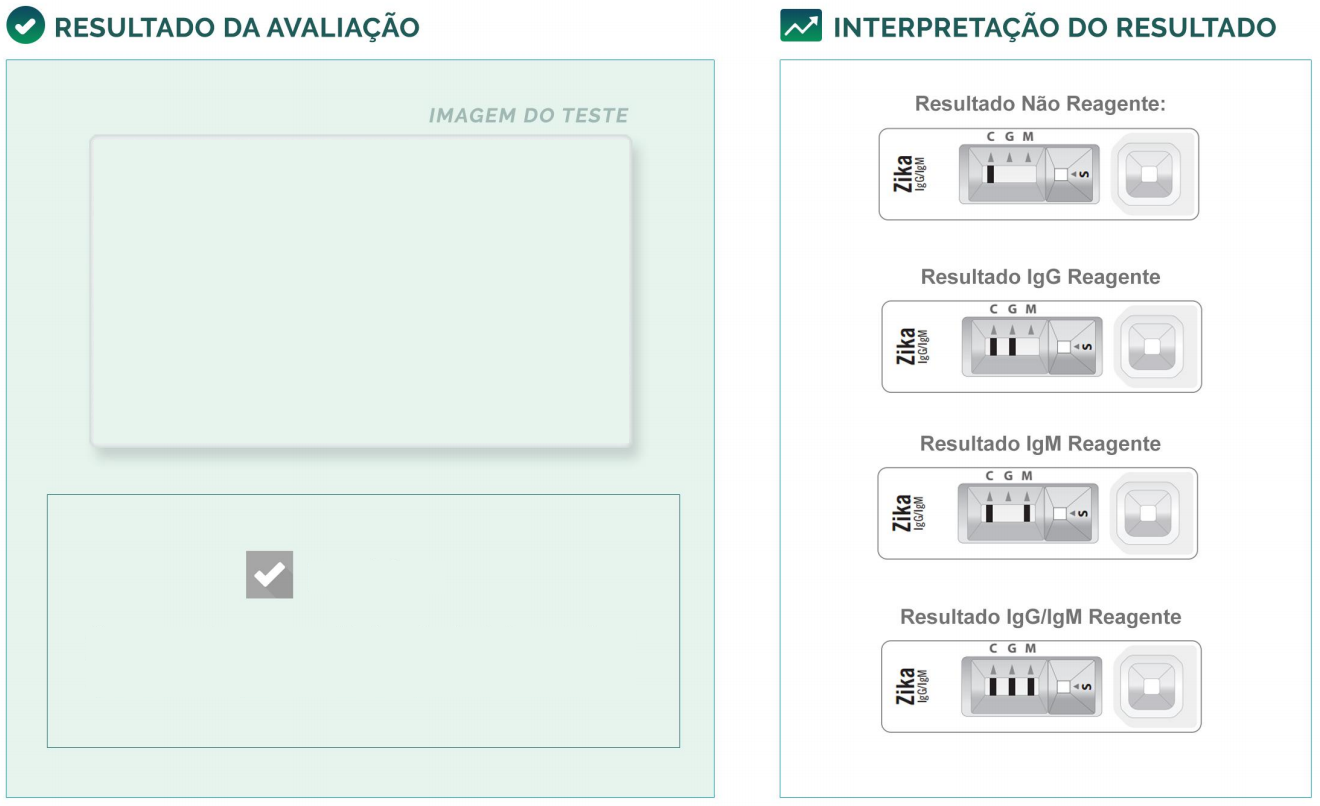
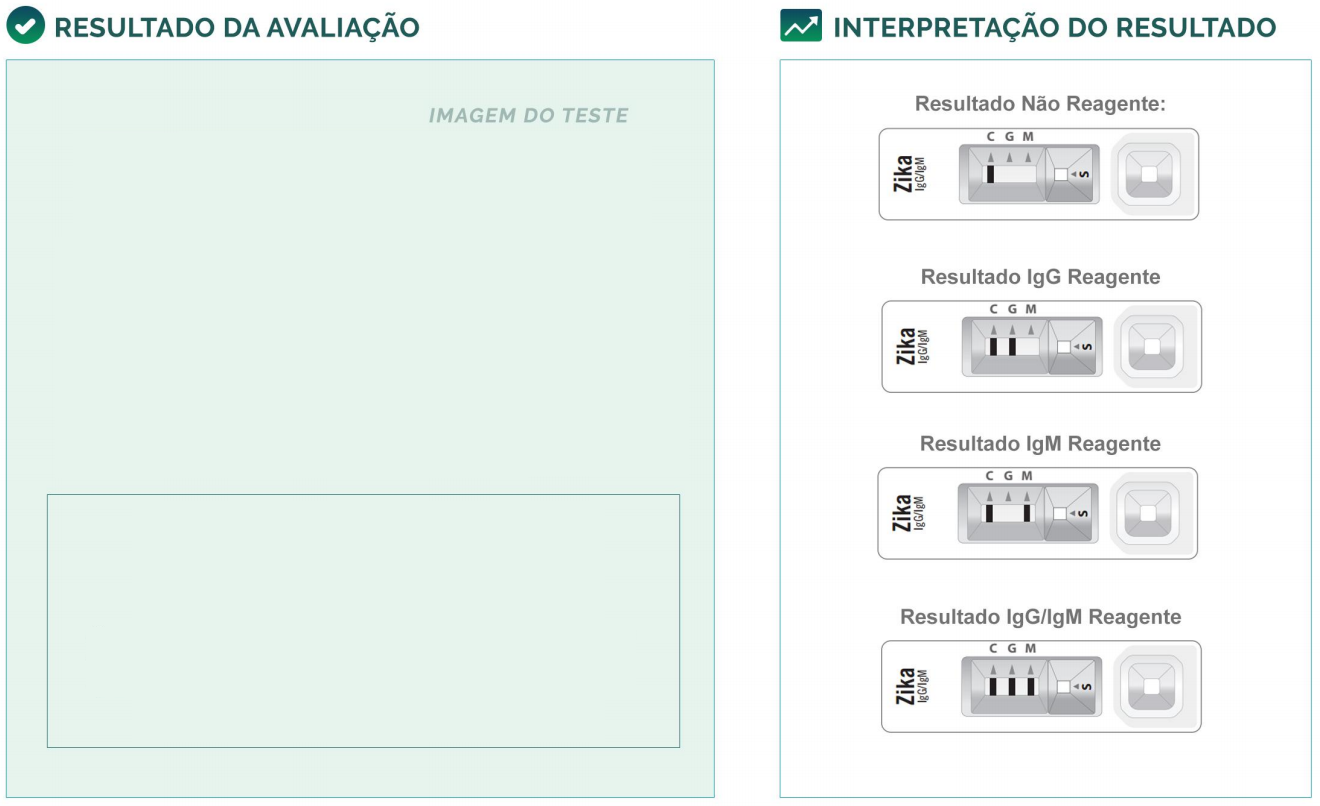
laudo result

Changed region(s): [[0.0621, 0.5583, 0.4659, 0.5893], [0.1864, 0.6824, 0.2485, 0.7444], [0.4659, 0.5273, 0.497, 0.5583]]

diff --git a/LabClick.Services/Services/LaudoServices.cs b/LabClick.Services/Services/LaudoServices.cs
@@ -65,6 +65,19 @@ namespace LabClick.Services.Services
             //Body
             gfx.DrawImage(XImage.FromFile(@"C:\Jobs\labclick\LabClick\Content\styles\images\body.PNG"), 20, 220, 570, 380);
 
+            Stream str = new MemoryStream(testeImagem.Imagem);
+            XImage xImage = XImage.FromStream(str);
+            gfx.DrawImage(xImage, 100, 290, 130, 130);
+
+            if (laudo.Resultado == "Positivo")
+            {
+                gfx.DrawImage(XImage.FromFile(@"C:\Jobs\labclick\LabClick\Content\styles\images\positivo.PNG"), 100, 500, 150, 30);
+            }
+            else
+            {
+                gfx.DrawImage(XImage.FromFile(@"C:\Jobs\labclick\LabClick\Content\styles\images\negativo.PNG"), 100, 500, 150, 30);
+            }
+
             //Footer
             Stream footerStream = new MemoryStream(laboratorio.ImagemFooter);
             XImage footerImage = XImage.FromStream(footerStream);
@@ -89,18 +102,8 @@ namespace LabClick.Services.Services
                 XBrushes.Black, 244, 130, XStringFormats.Default);
             gfx.DrawString($"UF: {teste.Paciente.Endereco.UF}", font,
                 XBrushes.Black, 244, 140, XStringFormats.Default);
-
-            //Dados do Teste
             gfx.DrawString($"Data do Teste: {teste.DataCadastro}", font,
                 XBrushes.Black, 410, 120, XStringFormats.Default);
-
-            //Resultado e Imagem do Teste
-
-            //gfx.DrawImage(XImage.FromFile(@"C:\Jobs\labclick\Imagens\Resultado.PNG"), 40, 220, 75, 17);
-
-            //Stream str = new MemoryStream(testeImagem.Imagem);
-            //XImage xImage = XImage.FromStream(str);
-            //gfx.DrawImage(xImage, 40, 250, 200, 200);
 
             //gfx.DrawString($"{laudo.Resultado}", font,
             //    XBrushes.Black, 40, 500);
